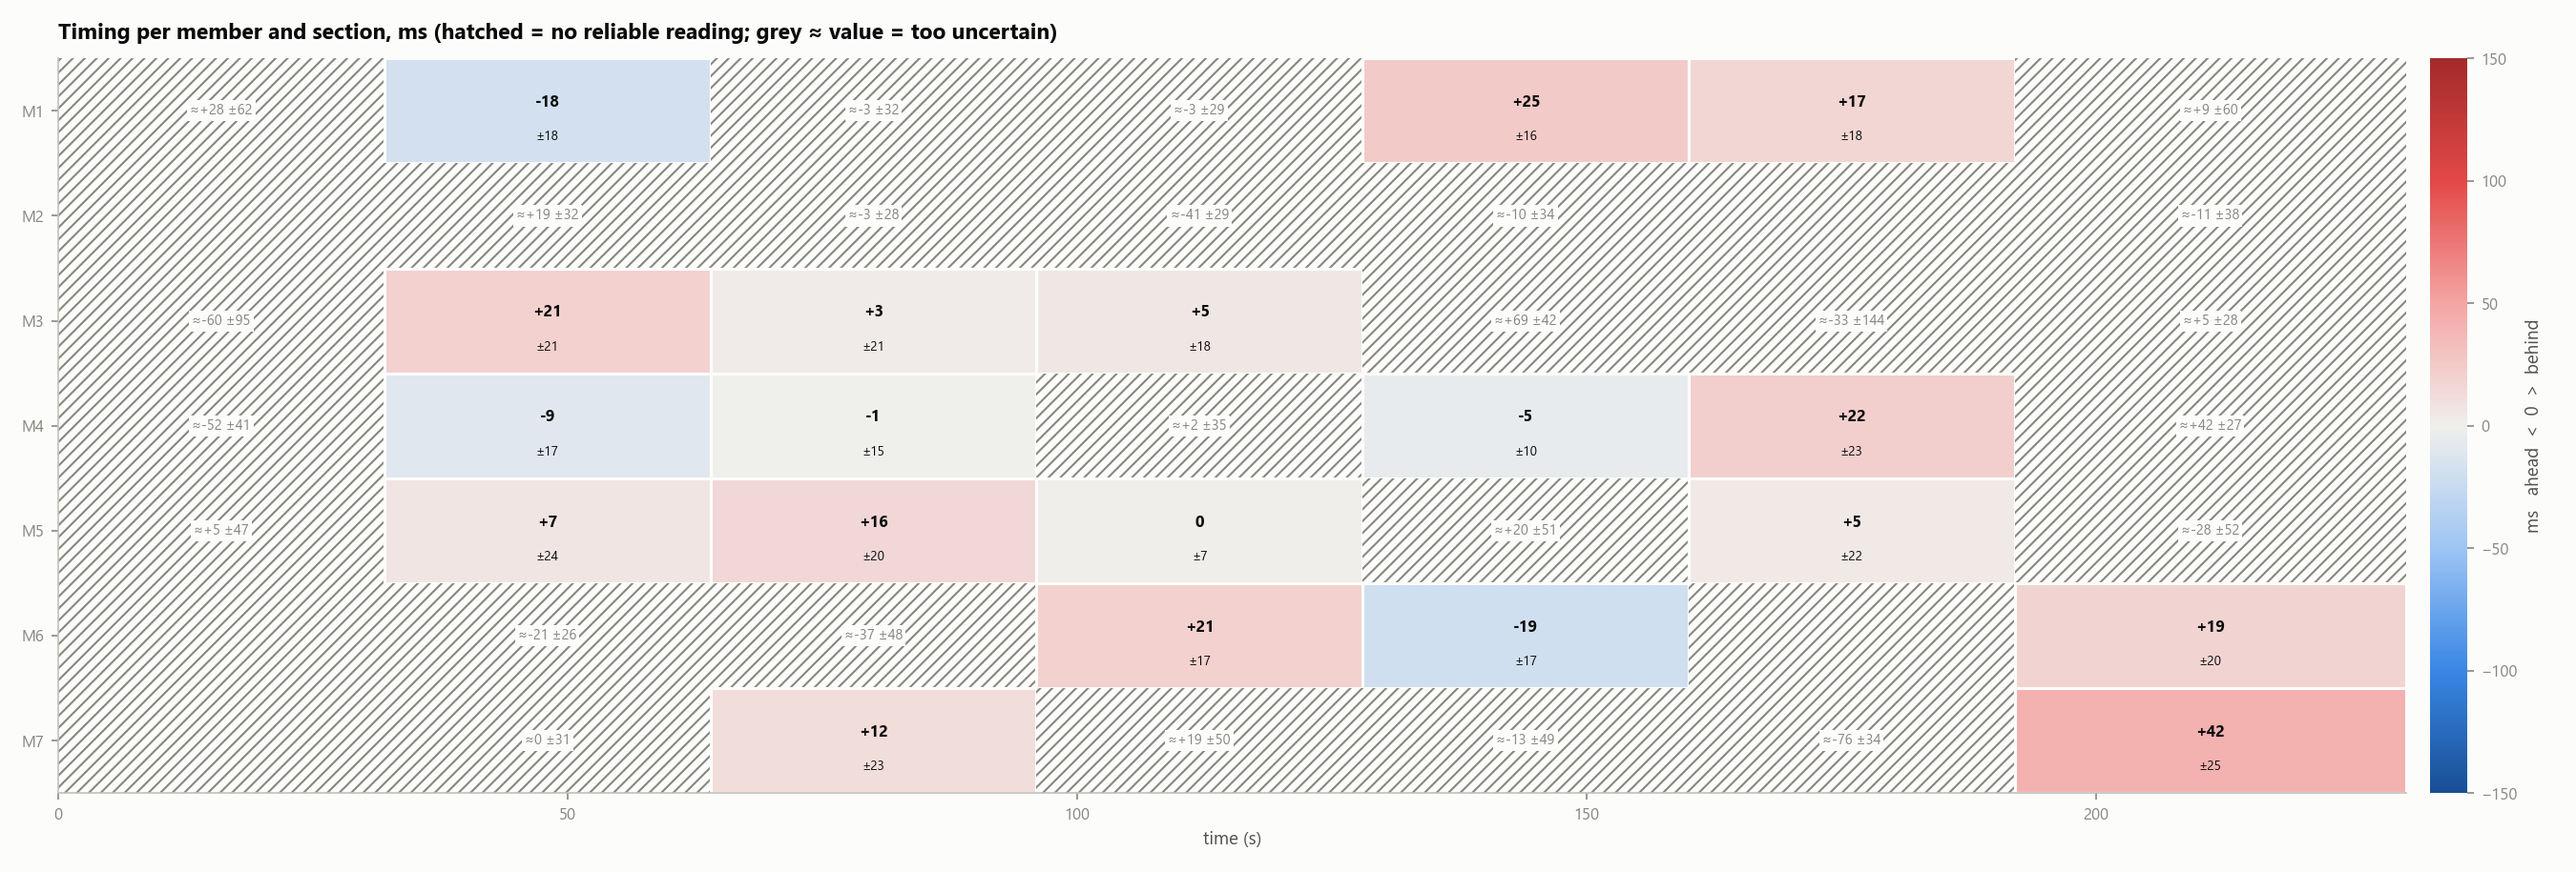
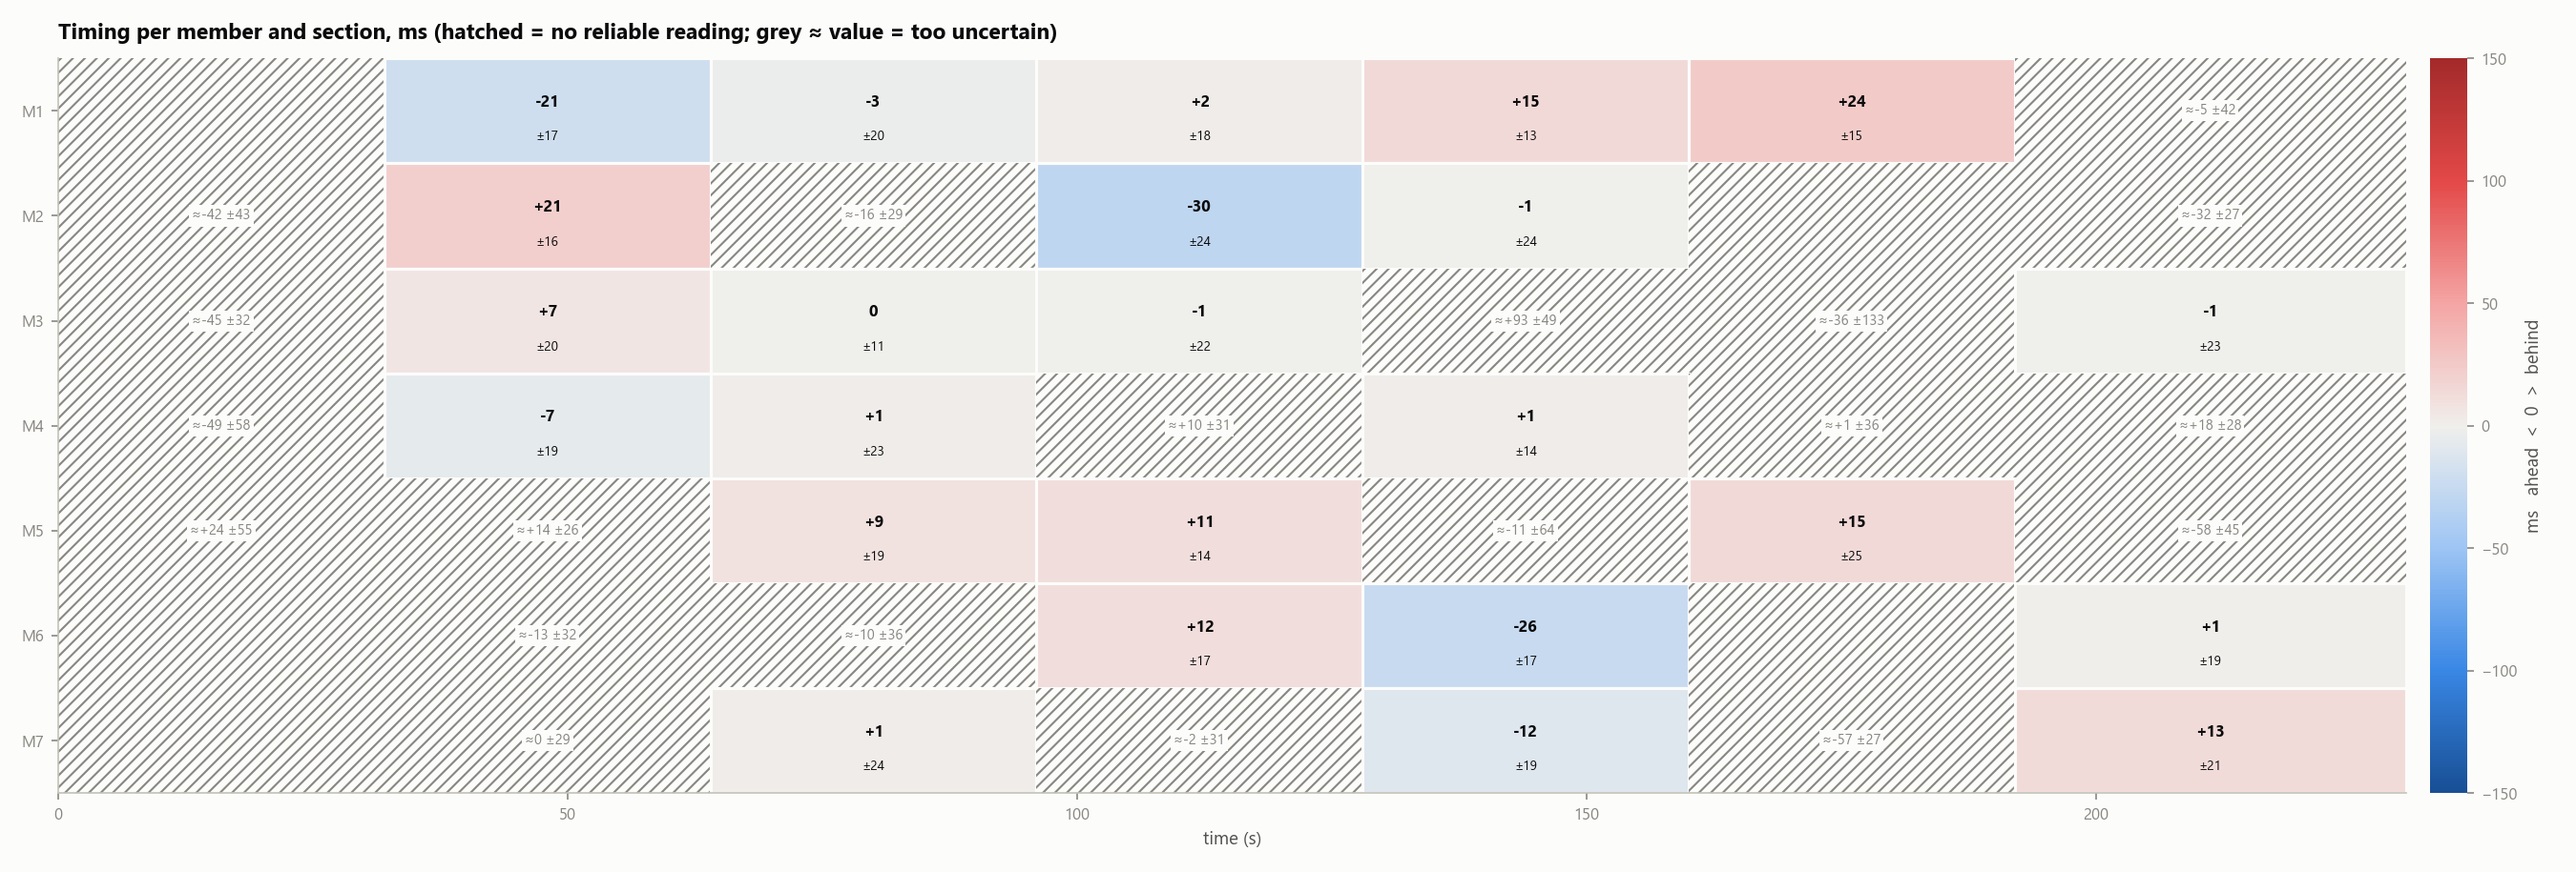
docs: Stage F, the beat and dancing together

diff --git a/README.md b/README.md
@@ -53,6 +53,8 @@ flowchart LR
 | section timing | median of many looser windows per section (default 32 s), with a 90% interval from a joint block bootstrap ([sync/sections.py](syncscore/sync/sections.py)) | on real dance single windows are weak witnesses, and pooling is what holds up when shifts are planted into real footage. "0 ms" stays the clip's median member even when someone is hidden. |
 | group clock | iterate: align members, rebuild consensus, re-measure, damped, until < 0.1 ms change ([sync/measure.py](syncscore/sync/measure.py)) | offsets are relative to the **median member**. Without damping the estimates overshoot each other (with 2 members, forever). |
 | shape | angle between each bone and the **whole-group median** after removing timing ([sync/shape.py](syncscore/sync/shape.py)); a part is "off" when it is more than 15° beyond the **group's own typical error** at that moment | including the member makes the median a vote, which stays robust in a trio. On real 2D footage perspective and styling put everyone's arms tens of degrees from the consensus, so only standing out from the group counts. |
+| dancing together | per member and frame: most of the others seen dance the same thing (limbs within a limit of each other), the member dances it too, and is moving while they move or still while they hold; limits scale with the clip's typical difference ([sync/unison.py](syncscore/sync/unison.py)) | during a solo, split parts or a member's own pose, "the group" is no reference: no ghost there, and those windows don't count for timing. |
+| the beat | the soundtrack via **PyAV**, a spectral-flux onset curve, tempo by autocorrelation, beats by dynamic programming, then a steady **half-beat grid** fitted to them ([audio/beats.py](syncscore/audio/beats.py)); **clean landings**: a big move falling into stillness ([sync/landings.py](syncscore/sync/landings.py)) | shown in the viewer to judge by eye, not scored: on the test clip the landings didn't line up with the beat any better than chance (Limitations). |
 | honesty gates | a window is "no reading" when the group barely moves, the match is poor, the member is mostly unseen, or **a second correlation peak is nearly as high** (repeated grooves) | not knowing is reported as not knowing. |
 
 The full reasoning, stage by stage, is in [docs/walkthrough.md](docs/walkthrough.md).
@@ -72,6 +74,15 @@ ghost; a wrong arm shows as the gap between their arm and the ghost's.
   loop.
 - **Lineup:** everyone side by side, feet on one line, to compare a move.
 - Links open the page at a moment: `index.html?t=62.9&view=dancer&member=M3&speed=0.25`.
+- **Only while the group dances together:** during a solo, split parts, or a member holding their
+  own pose while the others dance, the group is no reference for them. There is no ghost, a grey
+  bar marks the stretch under their timeline row, and those moments don't count for timing.
+- **The beat:** from the video's soundtrack, a lane under the controls shows the beat and the "and"
+  around the current moment, a dot pulses on each beat, and **Sound** plays the music (at ¼ speed
+  too). Each dancer's **clean landings** (a big move falling into stillness) sit on the lane as dots,
+  and the dancer view lists them with how far each fell from the nearest half beat. The dots are
+  coloured on/off the beat only when a video's landings demonstrably line up with the beat; on the
+  test clip they don't, so they stay neutral and the lane is for judging by eye.
 
 Only detected joints are drawn: joints the smoothing filled in for a few frames are left out, so
 nothing on screen is guessed. The page reads the video from where it is and never copies it, so
@@ -84,6 +95,11 @@ The pictures below are skeleton-only (video switched off).
 |---|---|
 | ![M3 on the real clip](docs/media/viewer_ghost_original.png) | ![M3 delayed by 133 ms](docs/media/viewer_ghost_planted.png) |
 | *Real clip, M3 at a hit: skeleton and ghost overlap (one arm differs).* | *The same moment with M3's track delayed by 133 ms: the arms trail the ghost.* |
+
+| | |
+|---|---|
+| ![The beat lane on the real clip](docs/media/viewer_beat.png) | ![M2 apart from the group, no ghost](docs/media/viewer_apart.png) |
+| *The beat lane: beats (bright) and the "and"s, each dancer's clean landings as dots, and grey bars under the timeline where a member was apart from the group.* | *M2 crouching while the others stand (3:00): no ghost and no group timing here. The pink marks still say the pose differs from the group's.* |
 
 ## Validation
 
@@ -141,14 +157,15 @@ planted: a real member's track is delayed by 33 / 67 / 133 ms and the measuremen
 |---|---|---|---|---|
 | single windows, strict gates | 3% of windows | 6.3 ms | 3% | |
 | single windows, 4 s long, gates loosened to 0.2 (before the tracking fix) | 23% | 14 ms | 13% | |
-| **32 s sections** (pooled, with intervals) | 33% of the planted members' sections | 9.7 ms | 0% | 100% |
+| **32 s sections** (pooled, with intervals) | 37% of the planted members' sections | 9.7 ms | 0% | 100% |
 | single hits (tried, not in the report) | 23% of hits | about 4 ms typical, 18 ms mean | 3% | |
 | 32 s sections from hits | 0% | | | |
-| 32 s sections, windows or hits | 33% | 9.7 ms | 0% | 100% |
+| 32 s sections, windows or hits | 37% | 9.7 ms | 0% | 100% |
 
 (3 members × 3 shifts, after the tracking fixes below. Filling occlusion gaps took sections from
 22% to 33% and the interval coverage from 83% to 100%; M2, who never got a section reading
-before, now gets one in 14-29% of sections.)
+before, now gets one in 14-29% of sections. Leaving out the windows where a member isn't dancing
+together with the group took sections from 33% to 37%: those windows only added spread.)
 
 Per window the measurement noise is about ±12-15 ms, but window offsets spread about ±60 ms,
 and that spread comes from the dancing (real timing variation, or styling read as timing). That's
@@ -181,7 +198,17 @@ Real accuracy is bounded by the pose model.
   to the camera show slightly different directions for the same 3D pose, which reads as shape
   error. Lifting to 3D would fix this at the cost of a second model with its own errors.
 - **Reference = the group.** Offsets are relative to the median member. If most of the group is
-  late against the music, that is invisible. Audio beat alignment is not implemented.
+  late against the music, that is invisible in the timing.
+- **The beat is shown, not scored.** The music's grid is solid (the test clip: 120 BPM, 87% of
+  tracked beats within 40 ms of a steady grid), but the dancers' side isn't: their clean landings
+  fell within 50 ms of a half beat 38.5% of the time where chance is 40%. Only the very biggest moves
+  leaned toward the beat in an earlier test (55-59%, about ten per dancer in the whole song), far
+  too few to time anyone by (docs/walkthrough.md, Stage F). Most choreography isn't hit-and-hold,
+  and a 2D landing at 30 fps can't be pinned to tens of milliseconds. A delay between sound and picture would shift every dancer equally, and a move that
+  lands between beats on purpose reads as off the beat.
+- **Dancing together is judged in 2D.** A canon (the same move in turn) and individual parts read
+  as apart, which is the intent; members dancing the same move facing very different ways can also
+  read as apart.
 - **Repeated grooves** faster than ±400 ms are fundamentally ambiguous: a member one full cycle
   late looks on time. These windows are flagged, not scored.
 - **ID swaps between members in matching outfits** are not reliably detected by the colour
@@ -241,6 +268,9 @@ syncscore audit path/to/video.mp4 --results results/ # sample frames to label ID
 syncscore audit-score results/audit/ids.csv          # true ID-swap rate
 pytest                                             # unit tests for the alignment math and the synthetic recovery
 ```
+
+The beat needs PyAV (`pip install av`, included in requirements.txt); without it, or for a video
+with no soundtrack, `view` still writes the viewer and the page says why there is no beat lane.
 
 `analyze` writes `summary.json` / `summary.csv` (per member and per section: offset with a 90%
 interval, share of sections in sync, strict single-window moments, body part most often off), `heatmap.png`, `report_cards/`,

diff --git a/docs/walkthrough.md b/docs/walkthrough.md
@@ -522,3 +522,94 @@ report flags.
 **What it can't show:** in 2D a member turned a different way from the others has a ghost that
 looks wrong even when they dance the same move (the 3D part of the plan addresses this), and the
 ghost of a member who is never seen has nothing to be drawn on.
+
+## Stage F: the beat, and dancing together (`audio/beats.py`, `sync/unison.py`, `sync/landings.py`)
+
+**Why:** using the viewer showed most sections say "no reading", and two things a dancer would ask
+for: timing against the *music* (who is closest to the beat), and no ghost during a solo, where
+"the group" isn't a reference.
+
+**The beat idea, tested before building.** The music side works: the soundtrack gives a steady
+120.0 BPM, and a half-beat grid (every 250 ms) fits the whole song. (A beat tracker alone kept
+flipping between the beat and the off-beat; the half-beat grid is the same either way, which is
+why the grid is fitted on it.) The dancers' side doesn't, from 2D pose at 30 fps:
+
+| what was timed against the beat (BTS clip) | events | within 50 ms of a half beat (chance: 40%) |
+|---|---|---|
+| landings of every move | 1,601 | 39% |
+| landings of big moves into stillness | 67 | 55% |
+| move starts | 629 | 43% |
+| big wrist stops / elbow starts | 99 / 73 | 38% / 59% |
+| a steady beat-frequency pulse in the motion | whole clip | 1.1x background (1.0 = none) |
+| motion against the music's own accents | whole clip | correlation 0.07 at best |
+
+Only the biggest, cleanest moves lean toward the beat (55% and 59%), and there are about ten of
+them per dancer in the whole song. Most of this choreography isn't hit-and-hold, its accents are
+spread over body parts and counts, and a 2D landing can't be pinned to tens of milliseconds. Timing
+every dancer per section against the beat would have given *fewer* readings than the group method,
+so it wasn't built.
+
+**What was built instead:**
+1. **Dancing together** (`sync/unison.py`). A member has a group reference only while most of the
+   other members dance the same thing and the member dances it too, in the same state (moving while
+   they move, still while they're still). A solo fails the state check, split parts fail the
+   "most of the others" check. There: no ghost in the viewer, a bar under the timeline, and no
+   timing against the group (those windows aren't used).
+2. **The beat in the viewer.** A lane under the controls with beat and off-beat ticks around the
+   current moment, a pulse on each beat, a sound toggle, and each dancer's **clean landings** (a big
+   move falling into stillness, timed where the speed is three quarters of the way down) as dots.
+
+**Found along the way:**
+- Speed normalised by a member's median speed is zero for a dancer who holds still more than half
+  the time (every speed then "unknown"); speed is now in units of their usual *moving* speed.
+- "The others agree" first meant their median angle to their own median: in a 3/3 split the median
+  sits between the parts and the split was missed. Then pairwise median: a still member was marked
+  apart during someone else's solo in a five-member group (half the pairs include the soloist). Now:
+  the largest set of others within the limit of each other must be more than half of them.
+- **"More than half" first counted members who were off screen.** From 15 to 31 s only three
+  members are in frame; each had two others seen out of six, never more than half, so none of
+  them could ever be together. It now counts among the others who are seen.
+- **Fixed angle limits didn't fit real footage.** In 2D, camera angle and styling put members'
+  limbs apart even in unison: pairs across the clip have a median of 18 degrees and a quarter sit
+  above 24. In the chorus at 100-104 s, all seven dancing the same moves, fixed 25/30-degree limits
+  called each member together only 52-77% of the time. The limits now scale (at least twice the
+  clip's typical difference, so 36 and 30 here, with 25/30 as floors so clean synthetic splits are
+  still caught), and that chorus reads 100% together.
+- **Section timing ignored "together" at first.** The windows apart from the group were dropped
+  from the strict single-window readings, but the 32 s sections (the report's main reading) pooled
+  them anyway. The planted-shift test exposed it by coming back identical to the last digit. Now a
+  window where the member is together less than half the time never counts. The planted test
+  then measured 37% of sections (was 33%) with the same 9.7 ms error, 0% more than 30 ms wrong and
+  the truth inside every interval: those windows had only added spread. On the clip, 24 of 49
+  member-sections (49%) have a reading, all within ±30 ms of the group.
+- **What reads as apart on the real clip, checked frame by frame:** 16-23 s, where the three
+  members on screen do individual moves (no time shift within half a second brings their limbs
+  closer than 26 degrees); 44-47 s, a canon; 120-125 s, one member posing at the side while
+  another stands upright as the rest lean; 175-187 s, one member crouching and another posing
+  apart from the group. Each member is together in 81-92% of the frames they are seen.
+- **The landings don't lock to the beat on this clip either** (39 clean landings, 38.5% within 50 ms
+  where chance is 40%, Rayleigh p 0.13). Colouring each dot "on" or "off" the beat would be a verdict
+  with nothing behind it, so the viewer colours them only when a video's landings demonstrably lock
+  (at least 20, p below 0.01, clearly above chance), and otherwise shows neutral dots and the
+  numbers. On this clip: neutral. The lane is still useful: at quarter speed with sound, you can see
+  where each landing falls against the ticks and judge it by eye.
+
+**Proof the landings are timed right:** M3's real track delayed by 33 and then 67 ms. Six of its
+seven clean landings are found again each time, moved by a median of 33.4 and 67.0 ms (range
+33-34 and 66-67), and their offsets against the beat move by exactly the same. A dancer who lands
+later shows up later on the lane by that amount; what the test can't say is where on a real
+landing "the moment it lands" is, which is a definition (here: three quarters of the way from the
+move's peak speed down to the hold).
+
+**Limits:** the beat comes from the video's own soundtrack, so a delay between sound and picture
+shifts every dancer equally. Offsets are to the nearest half beat, so a landing more than 125 ms
+off reads as early or late against the neighbouring one, and a move that lands between beats on
+purpose reads as off the beat. "Together" is judged in 2D: a canon and individual parts read as
+apart (as intended), and so can members dancing the same move while facing very different ways.
+A tempo that isn't steady (at least 70% of tracked beats within 40 ms of one grid) gets no lane,
+and the page says why.
+
+| | |
+|---|---|
+| ![The beat lane](media/viewer_beat.png) | ![M2 apart, no ghost](media/viewer_apart.png) |
+| *The lane at 2:36 (skeleton only). Dots are neutral: this clip's landings don't lock.* | *M2 crouching at 3:00 while the group stands: no ghost, no group timing.* |
